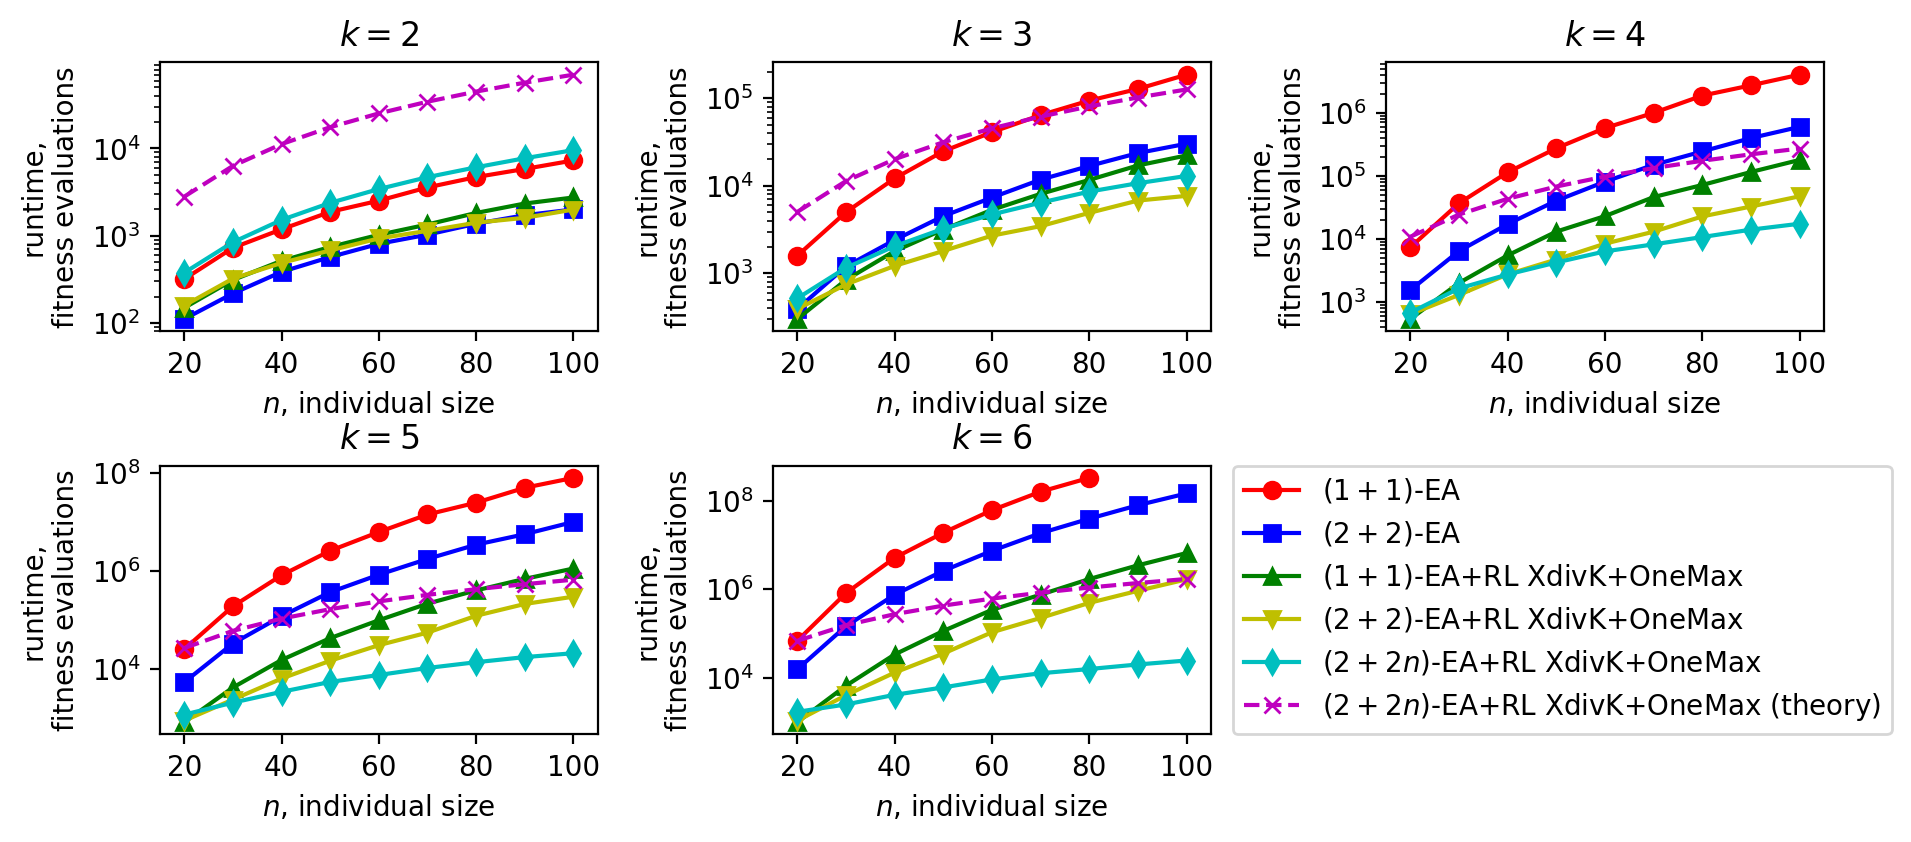
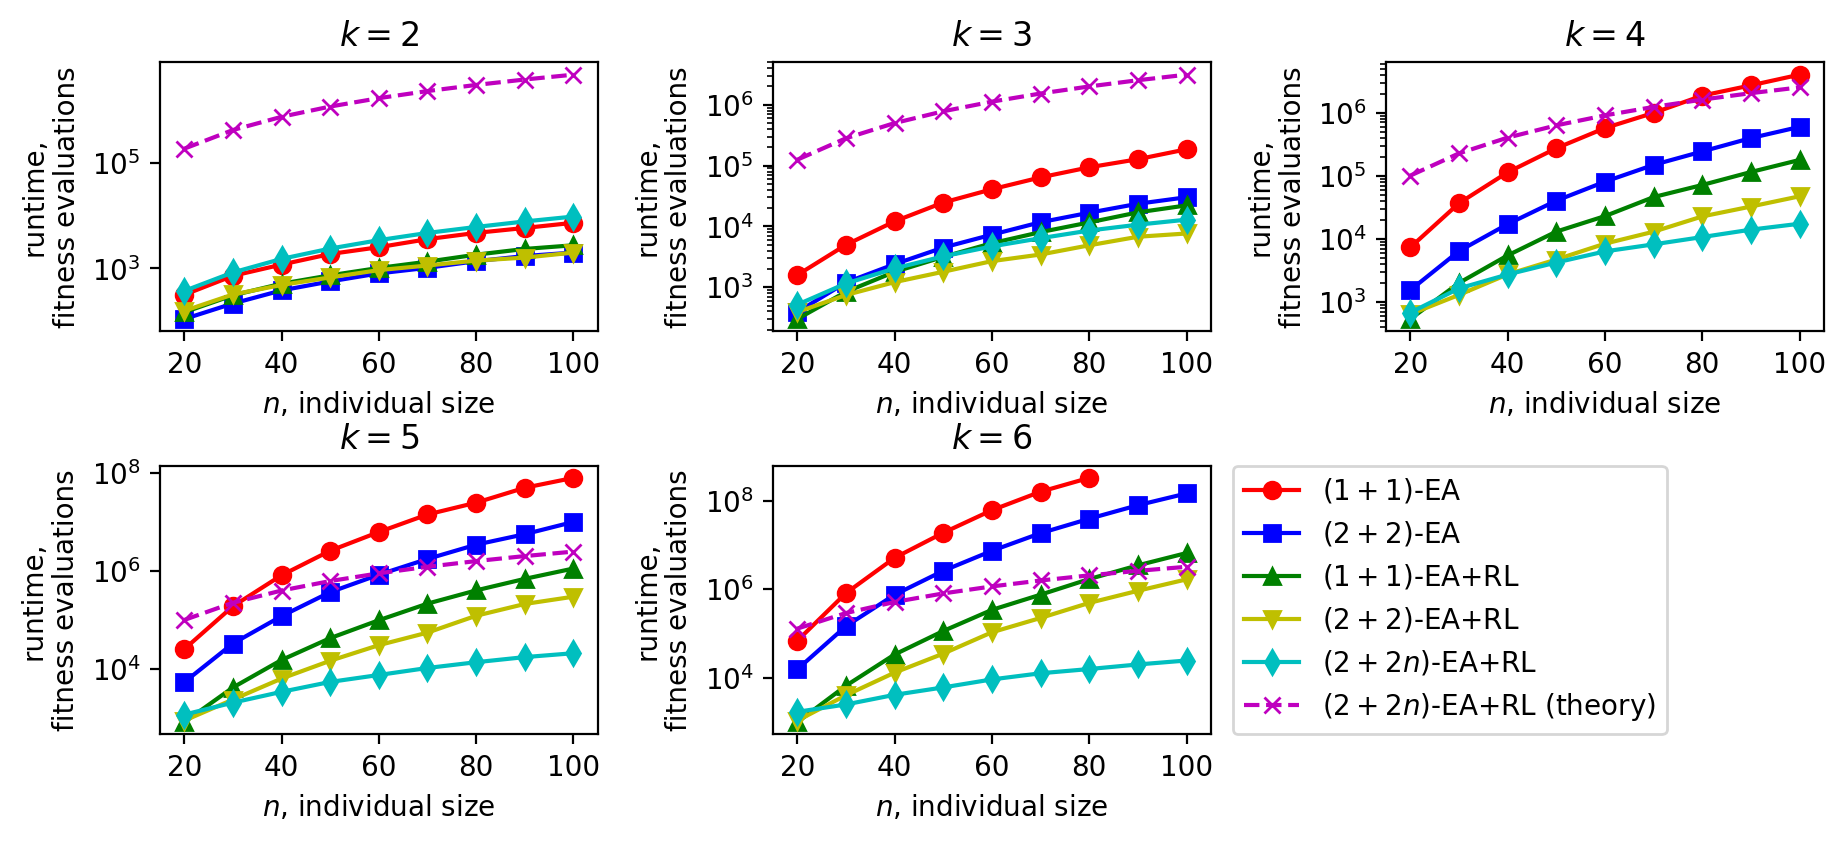
latest plots

diff --git a/populational/plots_stat.py b/populational/plots_stat.py
@@ -4,16 +4,26 @@ from scipy.stats import gaussian_kde
 from numpy import histogram
 
 
-def violin_histogram(data, bins, color, x=0):
+def violin_histogram(data, bins, color, x=0, label=None):
     n, _ = histogram(data, bins=bins)
     weight = 0.07
-    plt.hist(data,
-             bins=bins,
-             weights=[weight] * len(data),
-             alpha=0.5,
-             color=color,
-             orientation='horizontal',
-             bottom=[x - n_i * weight / 2 for n_i in n])
+    if label is None:
+        plt.hist(data,
+                 bins=bins,
+                 weights=[weight] * len(data),
+                 alpha=0.5,
+                 color=color,
+                 orientation='horizontal',
+                 bottom=[x - n_i * weight / 2 for n_i in n])
+    else:
+        plt.hist(data,
+                 bins=bins,
+                 weights=[weight] * len(data),
+                 alpha=0.5,
+                 color=color,
+                 orientation='horizontal',
+                 bottom=[x - n_i * weight / 2 for n_i in n],
+                 label=label)
 
 
 with open('data/earl_1p1_xdkom_merged.log', 'r') as fin:
@@ -62,90 +72,82 @@ with open('data/ea_2p2_xdk_merged.txt', 'r') as fin:
     data4 = list(map(float, fin.readlines()[-1].split()))
 
 
-data1 = [earl_1p1_xdkom[6][n] for n in range(20, 101, 10)]
-data2 = [sorted(list(map(lambda x: 2 * x, earl_2p2_xdkom[6][n]))) for n in range(20, 101, 10)]
-data3 = [sorted(list(map(lambda x: x * n, earl_2p2n_xdkom[6][n]))) for n in range(20, 101, 10)]
+earl_1p1_xdkom = [earl_1p1_xdkom[6][n] for n in range(20, 101, 10)]
+earl_2p2_xdkom = [sorted(list(map(lambda x: 2 * x, earl_2p2_xdkom[6][n]))) for n in range(20, 101, 10)]
+earl_2p2n_xdkom = [sorted(list(map(lambda x: x * n, earl_2p2n_xdkom[6][n]))) for n in range(20, 101, 10)]
+
+earlmod_1p1_xdkomzm = [earlmod_1p1_xdkomzm[6][n] for n in range(20, 101, 10)]
+earl_2p2_xdkomzm = [sorted(list(map(lambda x: 2 * x, earl_2p2_xdkomzm[6][n]))) for n in range(20, 101, 10)]
+earl_2p2n_xdkomzm = [sorted(list(map(lambda x: x * n, earl_2p2n_xdkomzm[6][n]))) for n in range(20, 101, 10)]
 
 
-# plt.plot(range(800), data3[6], 'bo')
-# worst = 1
-# plt.plot(range(20, 101, 10), [sum(d[-worst:])/worst for d in data2], 'bo-')
-# plt.plot(range(20, 101, 10), data4, 'ro-')
-# plt.yscale('log')
-#
-# plt.show()
-# exit(0)
 
 scale = 5
+plt.subplot(121)
 for i in range(9):
-    violin_histogram(data3[i],
+    violin_histogram(earl_2p2n_xdkom[i],
                      color='green',
-                     bins=[2 ** (i / scale) for i in range(scale * int(log(max(data3[6]), 2) + 2))],
+                     bins=[2 ** (i / scale) for i in range(scale * int(log(max(earl_2p2n_xdkom[6]), 2) + 2))],
                      x=i * 10 + 20)
-    violin_histogram(data2[i],
+    violin_histogram(earl_2p2_xdkom[i],
                      color='red',
-                     bins=[2 ** (i / scale) for i in range(scale * int(log(max(data2[6]), 2) + 2))],
+                     bins=[2 ** (i / scale) for i in range(scale * int(log(max(earl_2p2_xdkom[6]), 2) + 2))],
                      x=i * 10 + 20)
-    violin_histogram(data1[i],
+    violin_histogram(earl_1p1_xdkom[i],
                      color='blue',
-                     bins=[2 ** (i / scale) for i in range(scale * int(log(max(data1[6]), 2) + 2))],
+                     bins=[2 ** (i / scale) for i in range(scale * int(log(max(earl_1p1_xdkom[6]), 2) + 2))],
                      x=i * 10 + 20)
-plt.plot(range(20, 101, 10), [sum(data1[i]) / len(data1[i]) for i in range(len(data1))], 'bo-')
-plt.plot(range(20, 101, 10), [sum(data2[i]) / len(data2[i]) for i in range(len(data2))], 'ro-')
-plt.plot(range(20, 101, 10), [sum(data3[i]) / len(data3[i]) for i in range(len(data3))], 'go-')
+# plt.plot(range(20, 101, 10), [sum(earl_1p1_xdkom[i]) / len(earl_1p1_xdkom[i]) for i in range(len(earl_1p1_xdkom))], 'bo-')
+# plt.plot(range(20, 101, 10), [sum(earl_2p2_xdkom[i]) / len(earl_2p2_xdkom[i]) for i in range(len(earl_2p2_xdkom))], 'ro-')
+# plt.plot(range(20, 101, 10), [sum(earl_2p2n_xdkom[i]) / len(earl_2p2n_xdkom[i]) for i in range(len(earl_2p2n_xdkom))], 'go-')
 plt.yscale('log')
-plt.show()
-exit(0)
+plt.xlim(15, 108)
+plt.ylim(ymin=10)
+plt.xlabel('$n$, individual size')
+plt.ylabel('runtime, fitness\nevaluations')
+plt.title('XdivK+OneMax')
 
-
-parts = plt.violinplot(data1, showmeans=True, showextrema=True, points=800, bw_method=0.5)
-for p in parts['bodies']:
-    p.set_facecolor('red')
-    p.set_alpha(0.2)
-    p.set_linewidths(10)
-parts['cmeans'].set_color('red')
-parts['cmins'].set_color('red')
-parts['cmaxes'].set_color('red')
-parts['cbars'].set_color('red')
-
-parts = plt.violinplot(data2, showmeans=True, showextrema=True)
-for p in parts['bodies']:
-    p.set_facecolor('blue')
-    p.set_alpha(0.2)
-    p.set_linewidths(10)
-parts['cmeans'].set_color('blue')
-parts['cmins'].set_color('blue')
-parts['cmaxes'].set_color('blue')
-parts['cbars'].set_color('blue')
-
-parts = plt.violinplot(data3, showmeans=True, showextrema=True, positions=list(map(lambda x: x + 1, range(9))))
-for p in parts['bodies']:
-    p.set_facecolor('green')
-    p.set_alpha(0.2)
-    p.set_linewidths(10)
-parts['cmeans'].set_color('green')
-parts['cmins'].set_color('green')
-parts['cmaxes'].set_color('green')
-parts['cbars'].set_color('green')
-
+scale = 5
+plt.subplot(122)
+for i in range(9):
+    violin_histogram(earl_2p2n_xdkomzm[i],
+                     color='green',
+                     bins=[2 ** (i / scale) for i in range(scale * int(log(max(earl_2p2n_xdkomzm[6]), 2) + 2))],
+                     x=i * 10 + 20,
+                     label='$(2+2n)$-EA+RL' if i == 0 else None)
+    violin_histogram(earl_2p2_xdkomzm[i],
+                     color='red',
+                     bins=[2 ** (i / scale) for i in range(scale * int(log(max(earl_2p2_xdkomzm[6]), 2) + 2))],
+                     x=i * 10 + 20,
+                     label='$(2+2)$-EA+RL' if i == 0 else None)
+    violin_histogram(earlmod_1p1_xdkomzm[i],
+                     color='blue',
+                     bins=[2 ** (i / scale) for i in range(scale * int(log(max(earlmod_1p1_xdkomzm[6]), 2) + 2))],
+                     x=i * 10 + 20,
+                     label='modif. $(1+1)$-EA+RL' if i == 0 else None)
+# plt.plot(range(20, 101, 10), [sum(earlmod_1p1_xdkomzm[i]) / len(earlmod_1p1_xdkomzm[i]) for i in range(len(earlmod_1p1_xdkomzm))], 'bo-')
+# plt.plot(range(20, 101, 10), [sum(earl_2p2_xdkomzm[i]) / len(earl_2p2_xdkomzm[i]) for i in range(len(earl_2p2_xdkomzm))], 'ro-')
+# plt.plot(range(20, 101, 10), [sum(earl_2p2n_xdkomzm[i]) / len(earl_2p2n_xdkomzm[i]) for i in range(len(earl_2p2n_xdkomzm))], 'go-')
 plt.yscale('log')
-plt.xticks(range(1, 10), [str(i) for i in range(20, 101, 10)])
-plt.show()
-# plt.legend(loc='')
-exit(0)
+plt.xlim(15, 108)
+plt.ylim(ymin=10)
+plt.xlabel('$n$, individual size')
+plt.ylabel('runtime, fitness\nevaluations')
+plt.title('XdivK+OneMax+ZeroMax')
 
-plt.subplots_adjust(wspace=0.2,
-                    hspace=0.3,
+
+plt.subplots_adjust(wspace=0.26,
+                    hspace=0,
                     left=0.1,
-                    right=2.5,
-                    top=1.2,
+                    right=1.2,
+                    top=0.4,
                     bottom=0
                     )
 
-plt.savefig('pic/xdkom_violin.png',
+plt.savefig('pic/histograms.png',
             bbox_extra_artists=(plt.legend(bbox_to_anchor=(1.05, 1), loc=2, borderaxespad=0.),),
             bbox_inches='tight',
-            dpi=200)
+            dpi=100)
 # else:
 #     plt.savefig('pic/k{}_iters_box.png'.format(k),
 #                 bbox_inches='tight')

diff --git a/populational/plots_mean.py b/populational/plots_mean.py
@@ -29,8 +29,8 @@ with open('data/earl_2p2n_xdkom_merged.txt', 'r') as f:
 with open('data/earl_2p2n_xdkomzm_merged.txt', 'r') as f:
     earl_2p2n_xdkomzm = [[float(s) for s in line.split()] for line in f.readlines()]
 
-earl_2p2n_xdkom_theory = [[((2 * e / (e - 1)) ** k / (2 * k) + 1) * n for n in range(20, 101, 10)] for k in range(2, 7)]
-earl_2p2n_xdkomzm_theory = [[((3 * e / (e - 1)) ** k / (2 * k) + 1) * n for n in range(20, 101, 10)] for k in range(2, 7)]
+earl_2p2n_xdkom_theory = [[((2 * e / (e - 1)) ** k / (2 * k) + 1 + 450/k) * n for n in range(20, 101, 10)] for k in range(2, 7)]
+earl_2p2n_xdkomzm_theory = [[((3 * e / (e - 1)) ** k / (2 * k) + 1 + 900/k) * n for n in range(20, 101, 10)] for k in range(2, 7)]
 
 n_range = list(range(20, 101, 10))
 
@@ -89,22 +89,22 @@ for with_zm in True, False:
 
         if not with_zm:
             plt.semilogy(n_range, earl_1p1_xdkom[k - 2], 'g^-',
-                         label='$(1 + 1)$-EA+RL XdivK+OneMax')
+                         label='$(1 + 1)$-EA+RL')
             plt.semilogy(n_range, list(map(lambda x: x * 2, earl_2p2_xdkom[k - 2])), 'yv-',
-                         label='$(2 + 2)$-EA+RL XdivK+OneMax')
+                         label='$(2 + 2)$-EA+RL')
             plt.semilogy(n_range, list(map(lambda x, y: 2 * x * y, earl_2p2n_xdkom[k - 2], n_range)), 'cd-',
-                         label='$(2 + 2n)$-EA+RL XdivK+OneMax')
+                         label='$(2 + 2n)$-EA+RL')
             plt.semilogy(n_range, list(map(lambda x, y: 2 * x * y, earl_2p2n_xdkom_theory[k - 2], n_range)), 'mx--',
-                         label='$(2 + 2n)$-EA+RL XdivK+OneMax (theory)')
+                         label='$(2 + 2n)$-EA+RL (theory)')
         else:
             plt.semilogy(n_range, earlmod_1p1_xdkomzm[k - 2], 'g^-',
-                         label='modif. $(1 + 1)$-EA+RL XdivK+OneMax+ZeroMax')
+                         label='modif. $(1 + 1)$-EA+RL')
             plt.semilogy(n_range, list(map(lambda x: x * 2, earl_2p2_xdkomzm[k - 2])), 'yv-',
-                         label='$(2 + 2)$-EA+RL XdivK+OneMax+ZeroMax')
+                         label='$(2 + 2)$-EA+RL')
             plt.semilogy(n_range, list(map(lambda x, y: 2 * x * y, earl_2p2n_xdkomzm[k - 2], n_range)), 'cd-',
-                         label='$(2 + 2n)$-EA+RL XdivK+OneMax+ZeroMax')
+                         label='$(2 + 2n)$-EA+RL')
             plt.semilogy(n_range, list(map(lambda x, y: 2 * x * y, earl_2p2n_xdkomzm_theory[k - 2], n_range)), 'mx--',
-                         label='$(2 + 2n)$-EA+RL XdivK+OneMax+ZeroMax (theory)')
+                         label='$(2 + 2n)$-EA+RL (theory)')
 
         plt.xlabel('$n$, individual size')
         plt.ylabel('runtime,\nfitness evaluations')
